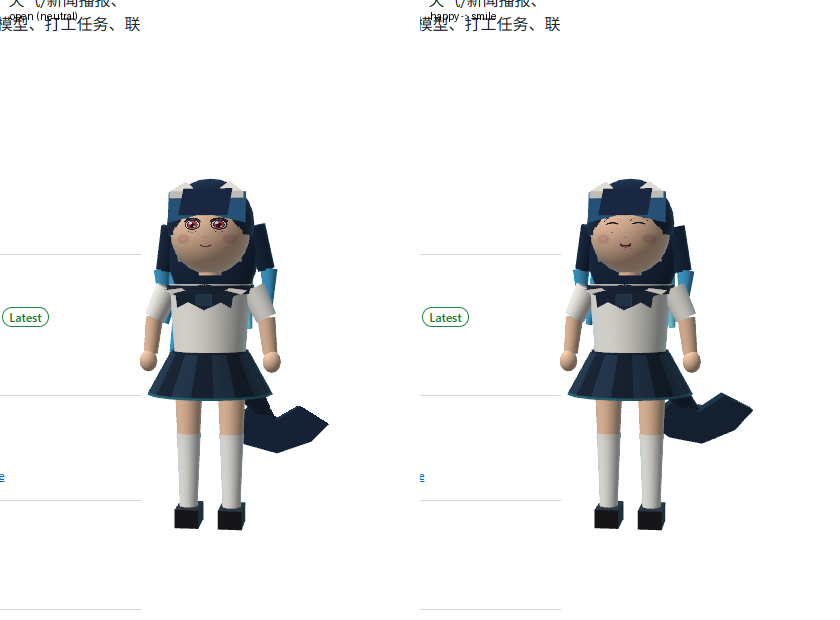
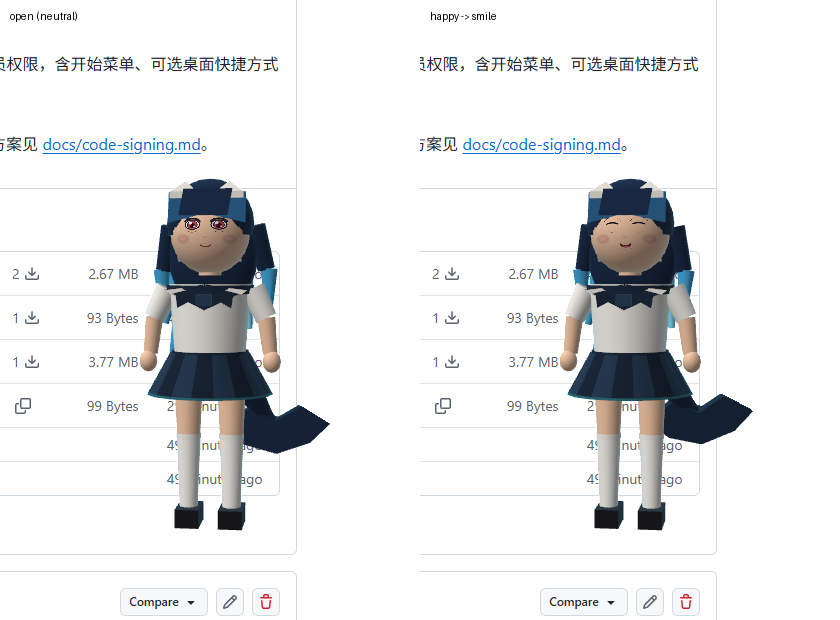
docs: add SignPath code-signing policy and exe metadata

diff --git a/3d/README.md b/3d/README.md
@@ -24,7 +24,7 @@ Toolchain is portable and lives outside PATH:
 - `F:\WhaleGirlPet\.toolchains\w64devkit` — g++ / make / binutils / CMake
 - `F:\WhaleGirlPet\.toolchains\SDL3\SDL3-3.4.20\x86_64-w64-mingw32` — SDL3 headers, import lib, DLL
 
-The release build uses `-Os -s -ffunction-sections -fdata-sections -Wl,--gc-sections` to keep the shell small. `build.ps1` compiles `main.cpp`, `model.cpp`, `shell_ui.cpp` and `emotion_bus.cpp`, links `-lSDL3`, the three static ozz libraries, `-lopengl32 -lgdi32 -luser32 -lshell32 -ladvapi32 -lws2_32`, and deploys `SDL3.dll` next to the exe. If `third_party/ozz-build` is missing, build ozz once with the same w64devkit toolchain (`BUILD_SHARED_LIBS=OFF`, `ozz_build_tools/fbx/gltf/data/samples/howtos/tests` all `OFF`), then rerun the script. Putting the devkit `bin` directory on `PATH` is required because CMake's generated Makefiles call a bare `make`.
+The release build uses `-Os -s -ffunction-sections -fdata-sections -Wl,--gc-sections` to keep the shell small. `build.ps1` compiles `main.cpp`, `model.cpp`, `shell_ui.cpp`, `emotion_bus.cpp` and `whale3d.rc` (via `windres`), links `-lSDL3`, the three static ozz libraries, `-lopengl32 -lgdi32 -luser32 -lshell32 -ladvapi32 -lws2_32`, and deploys `SDL3.dll` next to the exe. If `third_party/ozz-build` is missing, build ozz once with the same w64devkit toolchain (`BUILD_SHARED_LIBS=OFF`, `ozz_build_tools/fbx/gltf/data/samples/howtos/tests` all `OFF`), then rerun the script. Putting the devkit `bin` directory on `PATH` is required because CMake's generated Makefiles call a bare `make`.
 
 ## Run
 
@@ -138,12 +138,12 @@ Hardware: NVIDIA GTX 1060 6GB, driver 582.78, OpenGL 3.3.0.
 
 | Item | Measurement |
 | :--- | :--- |
-| `whale3d.exe` (v3.2 step 1 dev) | 1,320,448 bytes (1.26 MiB), with VRM + spring bones + tray + settings + in-place model cache + alpha region + emotion bus |
[1 lines of base64/hex data omitted]
+| `whale3d.exe` (v3.2 step 1 dev) | 1,321,472 bytes (1.26 MiB), with VRM + spring bones + tray + settings + in-place model cache + alpha region + emotion bus + version resource |
[1 lines of base64/hex data omitted]
 | `SDL3.dll` | 5,385,103 bytes |
[1 lines of base64/hex data omitted]
 | `whale_girl.glb` fallback | 350,332 bytes |
-| Runtime payload (dev exe + DLL + VRM) | 7,057,259 bytes (6.73 MiB) |
+| Runtime payload (dev exe + DLL + VRM) | 7,058,283 bytes (6.73 MiB) |
 | Spring chains | 4 (`hair_side.L/R`, `hair_back`, `tail`); 19 VRM humanoid bones |
 | Spring solver | 7.63–10.80 µs/frame idle; 4 spring chains on 28 joints |
 | Tray promotion | `HKCU\Control Panel\NotifyIconSettings\674768749172540869\IsPromoted=1`; exact-rect crop shows the blue-haired icon |
@@ -159,7 +159,7 @@ Hardware: NVIDIA GTX 1060 6GB, driver 582.78, OpenGL 3.3.0.
 | RSS | about 70.1 MB |
 | Exit code | 0 for direct exit, tray-menu exit and settings-close-then-exit |
 
-The v3.2 dev exe grew by 17,920 bytes over the v3.0.28 shell (1,302,528 → 1,320,448): 13,312 B for the VRM/GLB extension parser, per-frame spring solver and motion input; another 4,608 B for the emotion bus. The 100 MB limit holds: private bytes stay at 97.8–98.1 MB across the initial load and four in-place switches, with no growth after the second sample.
+The v3.2 dev exe grew by 18,944 bytes over the v3.0.28 shell (1,302,528 → 1,321,472): 13,312 B for the VRM/GLB extension parser, per-frame spring solver and motion input; 4,608 B for the emotion bus; and 1,024 B for the `whale3d.rc` product/version metadata used by SignPath. The 100 MB limit holds: private bytes stay at 97.8–98.1 MB across the initial load and four in-place switches, with no growth after the second sample.
 
 ## Runnable package
 

diff --git a/CODE_SIGNING_POLICY.md b/CODE_SIGNING_POLICY.md
@@ -1,0 +1,45 @@
+# Code signing policy
+
+**Free code signing provided by [SignPath.io](https://signpath.io/), certificate by [SignPath Foundation](https://signpath.org/).**
+
+## Scope
+
+This policy covers the Windows artifacts built from this repository's 3D mainline:
+
+- `whale3d.exe` (the SDL3/OpenGL desktop pet)
+- `WhaleGirlPet-3D-Setup-<version>.exe` (the Inno Setup installer)
+- the release ZIP that contains the signed `whale3d.exe`
+
+The 2D PySide6 tree and its historical installers are archived and are not part of a new SignPath signing request unless this policy is explicitly extended.
+
+## Team roles
+
+| Role | Member | Responsibility |
+|---|---|---|
+| Author | [cnbprd](https://github.com/cnbprd) (repository owner) | May modify source and build scripts |
+| Reviewer | [cnbprd](https://github.com/cnbprd) | Reviews changes from non-committers before merge |
+| Approver | [cnbprd](https://github.com/cnbprd) | Approves each signing request for a release |
+
+All team members must use multi-factor authentication for GitHub and SignPath. The project is maintained by its owner; there is no separate commercial dual-licensing or closed-source component.
+
+## Build and metadata
+
+- Source and build scripts are public: `3d/build.ps1`, `3d/main.cpp`, `3d/model.cpp`, `3d/shell_ui.cpp`, `3d/emotion_bus.cpp`, and `installer/whale3d.iss` / `installer/build_3d_installers.ps1`.
+- The signed executable carries the product name `WhaleGirlPet`, product version `3.1.0.0`, file description `WhaleGirl 3D desktop pet`, and original filename `whale3d.exe`.
+- The Inno Setup installer uses product name `鲸鱼娘 3D` and the same version as the release tag; its version metadata is set in `installer/whale3d.iss`.
+- Signing order: sign `whale3d.exe` before packaging, compile the installer from the signed payload, then sign the installer and regenerate `.sha256`.
+
+## Privacy
+
+**This program will not transfer any information to other networked systems unless specifically requested by the user or the person installing or operating it.**
+
+The signed 3D core does not include telemetry, analytics, advertising, or a cloud account. Its only network surface is:
+
+- the local loopback emotion bus (`udp://127.0.0.1:47832`), which never leaves the machine; and
+- user-initiated links to GitHub Releases or the project page.
+
+The historical 2D application contains optional cloud AI, weather, and update features; those are documented in `PRIVACY.md` and are not part of the 3D core signing scope.
+
+## Release approval
+
+Every SignPath signing request must be approved by the Approver before the signed asset is uploaded. Unsigned artifacts must not be described as signed. Verification uses `Get-AuthenticodeSignature` and the adjacent `.sha256` file.

diff --git a/CHANGELOG.md b/CHANGELOG.md
@@ -9,9 +9,9 @@
 | 项 | 改动 | 实测 |
 |---|---|---|
 | 1 情绪总线 | 新增 `3d/emotion_bus.h/.cpp`，UDP 仅绑 `127.0.0.1:47832`；`WHALE3D_EMOTION_PORT` 可改端口 | `Emotion bus: udp://127.0.0.1:47832`；`{"emotion":"happy","intensity":0.8}` → `face=smile` |
-| 2 注入与验收 | 新增 `3d/tools/send_emotion.py` 和 `3d/tools/emotion_accept.py`；后者启动、注入、截图 | 日志 `Emotion: happy intensity=0.80 source=acceptance face=smile`；`docs/_3d_emotion_neutral.png` 与 `_happy.png` 全窗 RGB 平均差 0.674 |
+| 2 注入与验收 | 新增 `3d/tools/send_emotion.py` 和 `3d/tools/emotion_accept.py`；后者启动、注入、截图 | 日志 `Emotion: happy intensity=0.80 source=acceptance face=smile`；`docs/_3d_emotion_neutral.png` 与 `_happy.png` 多次运行全窗 RGB 平均差 0.626–0.674 |
 | 3 文案 | README / docs / 2D 可见字符串把“番茄钟”统一为“定时任务”；旧语音别名暂时保留 | README 中“番茄钟”计数 0；`app` 仅剩两条兼容别名；`py_compile` exit 0 |
-| 4 体积 | 只新增系统 `ws2_32.dll` 依赖，不新增运行时 DLL | `whale3d.exe` 1,315,840 → 1,320,448 B（+4,608 B）；未重打 3.1.0 ZIP/安装器 |
+| 4 体积与元数据 | 只新增系统 `ws2_32.dll` 依赖，不新增运行时 DLL；新增 `3d/whale3d.rc` 版本资源，产品名/版本与安装器一致 | `whale3d.exe` 1,315,840 → 1,321,472 B（+5,632 B，其中 1,024 B 为版本资源）；`ProductName=WhaleGirlPet`、`ProductVersion=3.1.0.0`；未重打 3.1.0 ZIP/安装器 |
 
 边界：三帧图集仍是硬切，没有 cross-fade、gaze/body lean、`P_USER/P_LLM/P_AUTO` 仲裁，也没有 Python 侧 LLM 情绪标签生产；这一步不能称为“情绪闭环完成”。细节见 `docs/3d-emotion-bus.md`。
 

diff --git a/PRIVACY.md b/PRIVACY.md
@@ -1,0 +1,31 @@
+# Privacy policy
+
+Last updated: 2026-11-26
+
+## 3D core (signed artifact)
+
+The 3D desktop pet (`whale3d.exe` and `WhaleGirlPet-3D-Setup-*.exe`) runs locally. It does **not** include telemetry, analytics, advertising, account registration, or cloud storage.
+
+- The emotion bus binds only to `udp://127.0.0.1:47832`; datagrams stay on the local machine.
+- Settings, model paths and window state are stored locally.
+- The application does not contact the network on its own. If the user clicks a GitHub Releases or project link, the default browser opens that page.
+- The installer writes only under `%LOCALAPPDATA%\WhaleGirlPet3D` and the Start Menu; it does not upload data.
+
+## Historical 2D application
+
+The archived PySide6 application has optional online features. They run only after the user configures or invokes them:
+
+- cloud LLM / TTS / ASR API profiles: requests go to the endpoint and model the user configures; API keys are stored locally;
+- weather and news panels: requests go to the configured public data source;
+- update checks: requests go to GitHub Releases;
+- local Ollama / local models: requests stay on `127.0.0.1`.
+
+There is no background telemetry. Chat history, memory, audio cache, API profiles and configuration are stored in the user's local application data directory. Removing the application data directory removes them.
+
+## Third-party components
+
+The 3D build includes SDL3, ozz-animation, stb_image and nlohmann/json under their own licenses; they do not add network or telemetry behavior. See `3d/THIRD_PARTY_NOTICES.txt` and `LICENSE`.
+
+## Contact
+
+Privacy questions: open an issue at <https://github.com/cnbprd/WhaleGirlPet/issues>.

diff --git a/docs/3d-emotion-bus.md b/docs/3d-emotion-bus.md
@@ -61,7 +61,7 @@ Emotion: happy intensity=0.80 source=manual face=smile
 - 进程日志：`Emotion: happy intensity=0.80 source=acceptance face=smile`
 - 帧率：约 27.8–28.8 fps，`update_us` 约 10 µs；和 v3.1.0 同量级。
 - 截图：`docs/_3d_emotion_neutral.png`、`docs/_3d_emotion_happy.png`、`docs/_3d_emotion_compare.png`
-- `open` 与 `happy` 全窗口 RGB 平均差 **0.674**（0–255 尺度）；差异集中在眼部/嘴部，属于图集帧切换，不是窗口位移。
+- `open` 与 `happy` 全窗口 RGB 平均差多次运行在 **0.626–0.674**（0–255 尺度）；差异集中在眼部/嘴部，属于图集帧切换，不是窗口位移。
 
 ## 还没做的
 
@@ -74,7 +74,7 @@ Emotion: happy intensity=0.80 source=manual face=smile
 
 ## 体积与安全
 
-- 新增 `emotion_bus.cpp` 后，`whale3d.exe` 从 1,315,840 B 增至 **1,320,448 B**（+4,608 B）。
+- 新增 `emotion_bus.cpp` 后，`whale3d.exe` 从 1,315,840 B 增至 **1,321,472 B**（+5,632 B；其中 1,024 B 是版本资源）。
 - 仅链接系统 `ws2_32.dll`，没有引入新运行时 DLL。
 - 只绑 `127.0.0.1`，不监听 `0.0.0.0`；没有认证，本机任意进程都能注入，这也是当前开发阶段的预期边界。
 - 当前改动是开发态，**没有重新打 v3.1.0 的 ZIP / 安装包**；Release 里的 3.1.0 仍是旧 exe。

diff --git a/docs/3d-transition.md b/docs/3d-transition.md
@@ -412,8 +412,8 @@
 | 协议 | `{"emotion":"happy","intensity":0.8,"source":"llm"}`；`emotion` 必填，其余可选 |
 | 映射 | 正向/高唤醒 → `smile`；中性 → `auto`；负向/低唤醒 → `open`；未知忽略 |
 | 注入 | `3d/tools/send_emotion.py happy 0.8` |
-| 验收 | `3d/tools/emotion_accept.py`：日志 `Emotion: happy intensity=0.80 source=acceptance face=smile`，`docs/_3d_emotion_compare.png`，全窗 RGB 平均差 0.674 |
-| 体积 | `whale3d.exe` 1,315,840 → **1,320,448 B**（+4,608 B）；仅新增系统 `ws2_32.dll` 依赖 |
+| 验收 | `3d/tools/emotion_accept.py`：日志 `Emotion: happy intensity=0.80 source=acceptance face=smile`，`docs/_3d_emotion_compare.png`，多次运行全窗 RGB 平均差 0.626–0.674 |
+| 体积 | `whale3d.exe` 1,315,840 → **1,321,472 B**（+5,632 B；含 1,024 B 版本资源）；仅新增系统 `ws2_32.dll` 依赖 |
 | 边界 | 三帧图集硬切，尚无 cross-fade、gaze/body lean、优先级仲裁；未重打 3.1.0 ZIP/安装包 |
 
 细节与协议见 `docs/3d-emotion-bus.md`。下一步是在 shader 里做两帧交叉淡化，并让 Python 侧把 LLM 情绪标签发到这条总线。

diff --git a/README.md b/README.md
@@ -88,6 +88,12 @@
 
 安装包当前未签名；SmartScreen 若提示“未知发布者”，请先对照同名 `.sha256` 校验，再选择“更多信息 → 仍要运行”。受信任代码签名方案和接入条件见 [`docs/code-signing.md`](docs/code-signing.md)。
 
+### Code signing policy
+
+**Free code signing provided by [SignPath.io](https://signpath.io/), certificate by [SignPath Foundation](https://signpath.org/).**
+
+Signing scope is the 3D Windows artifacts: `whale3d.exe` and `WhaleGirlPet-3D-Setup-<version>.exe`. Authors / reviewers / approver: [cnbprd](https://github.com/cnbprd) (repository owner); all team members use MFA for GitHub and SignPath. Full policy: [`CODE_SIGNING_POLICY.md`](CODE_SIGNING_POLICY.md). Privacy statement: [`PRIVACY.md`](PRIVACY.md).
+
 2D 安装包是历史归档，不再作为新版本发布目标；下表只用于旧 Release 说明：
 
 | 文件 | 说明 |
